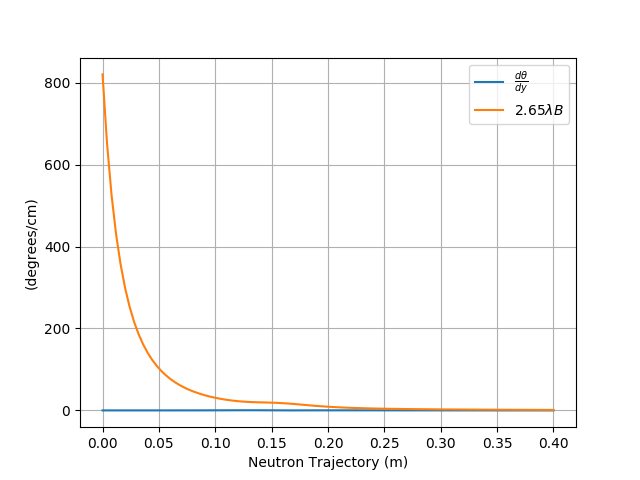
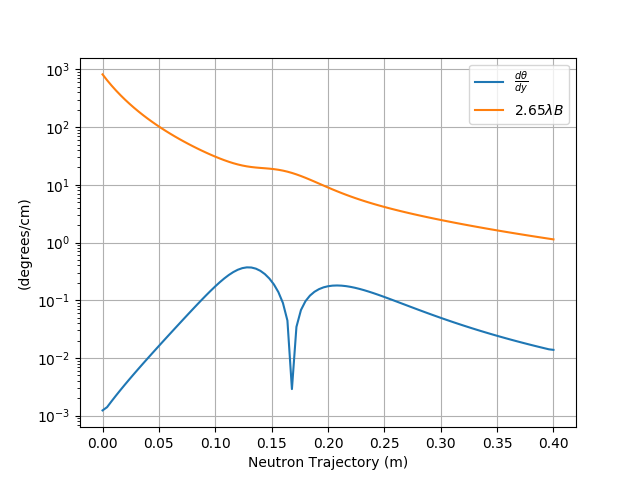
analysis: adiabatic transition
* Addresses #87.

diff --git a/analysis_scripts/adiabatic_check.py b/analysis_scripts/adiabatic_check.py
@@ -11,12 +11,20 @@
 import matplotlib.pyplot as plt
 import numpy as np
 
-from experiments.mieze.main import Mieze
-from elements.coils import Coil
 from experiments.mieze.parameters import HelmholtzSpinFlipper_position_HSF1, lambda_n, step
-from experiments.mieze.parameters import L1, L2
 
-from utils.helper_functions import read_data_from_file, save_data_to_file
+from utils.helper_functions import read_data_from_file
+from utils.physics_constants import factor_T_to_G
+
+
+def adjust_angle_gradient_for_adiabatic_condition(dtheta_dy):
+    """Convert from angle/m to angle/cm"""
+    return np.asarray(dtheta_dy) / 1e2
+
+
+def compute_adiabatic_condition(b_values):
+    factor_G_to_mT = 1e3 / factor_T_to_G
+    return 2.65 * lambda_n * np.asarray(b_values) * factor_G_to_mT
 
 
 class Plotter:
@@ -72,9 +80,10 @@ class Plotter:
         dtheta_dy = np.abs(np.gradient(theta_values, step))
         b_values = np.sqrt(np.power(np.asarray(self.bx), 2) + np.power(np.asarray(self.by), 2))
 
-        # ax.set_yscale('log')
-        ax.plot(self.x_range, np.asarray(dtheta_dy) * 1e-2)  # y from m to cm
-        ax.plot(self.x_range, 2.65 * lambda_n * np.asarray(b_values) * 1e-1)  # B from Gauss to mT,
+        ax.set_yscale('log')
+
+        ax.plot(self.x_range, adjust_angle_gradient_for_adiabatic_condition(dtheta_dy))  # y from m to cm
+        ax.plot(self.x_range, compute_adiabatic_condition(b_values))  # B from Gauss to mT,
         ax.legend((r'$\frac{d\theta}{dy}$', r'$2.65\lambda B$'))
 
         ax.set_xlabel('Neutron Trajectory (m)')

diff --git a/experiments/mieze/parameters.py b/experiments/mieze/parameters.py
@@ -4,7 +4,7 @@ import numpy as np
 # Variables are stored as tuples with numerical value and units
 I_sf1 = 1.6  # [A]
 I_hsf1 = 1.6  # [A]
-lambda_n = 4.3  # 1/[Angstrom]
+lambda_n = 4.3  # [Angstrom]
 
 I_real_coil = 10  # [A]
 
@@ -14,7 +14,7 @@ beamend = 10  # [m]  # Positions.get_position_coilA()
 
 npoints = 100
 absolute_x_position = np.linspace(startpoint, beamend, num=npoints)
-step = (absolute_x_position[1] - absolute_x_position[0])  # [A]
+step = (absolute_x_position[1] - absolute_x_position[0])
 
 # MIEZE coil set values
 
@@ -82,8 +82,8 @@ SpinFlipper_position2 = HelmholtzSpinFlipper_position_HSF2
 
 
 # Beam properties
-beamsize=0.02
-number_of_neutrons=1000
-velocity=3956 / 4.5
-incrementsize=0.001
-totalflightlength=3
+beamsize = 0.02
+number_of_neutrons = 1000
+velocity = 3956 / 4.5
+incrementsize = 0.001
+totalflightlength = 3
